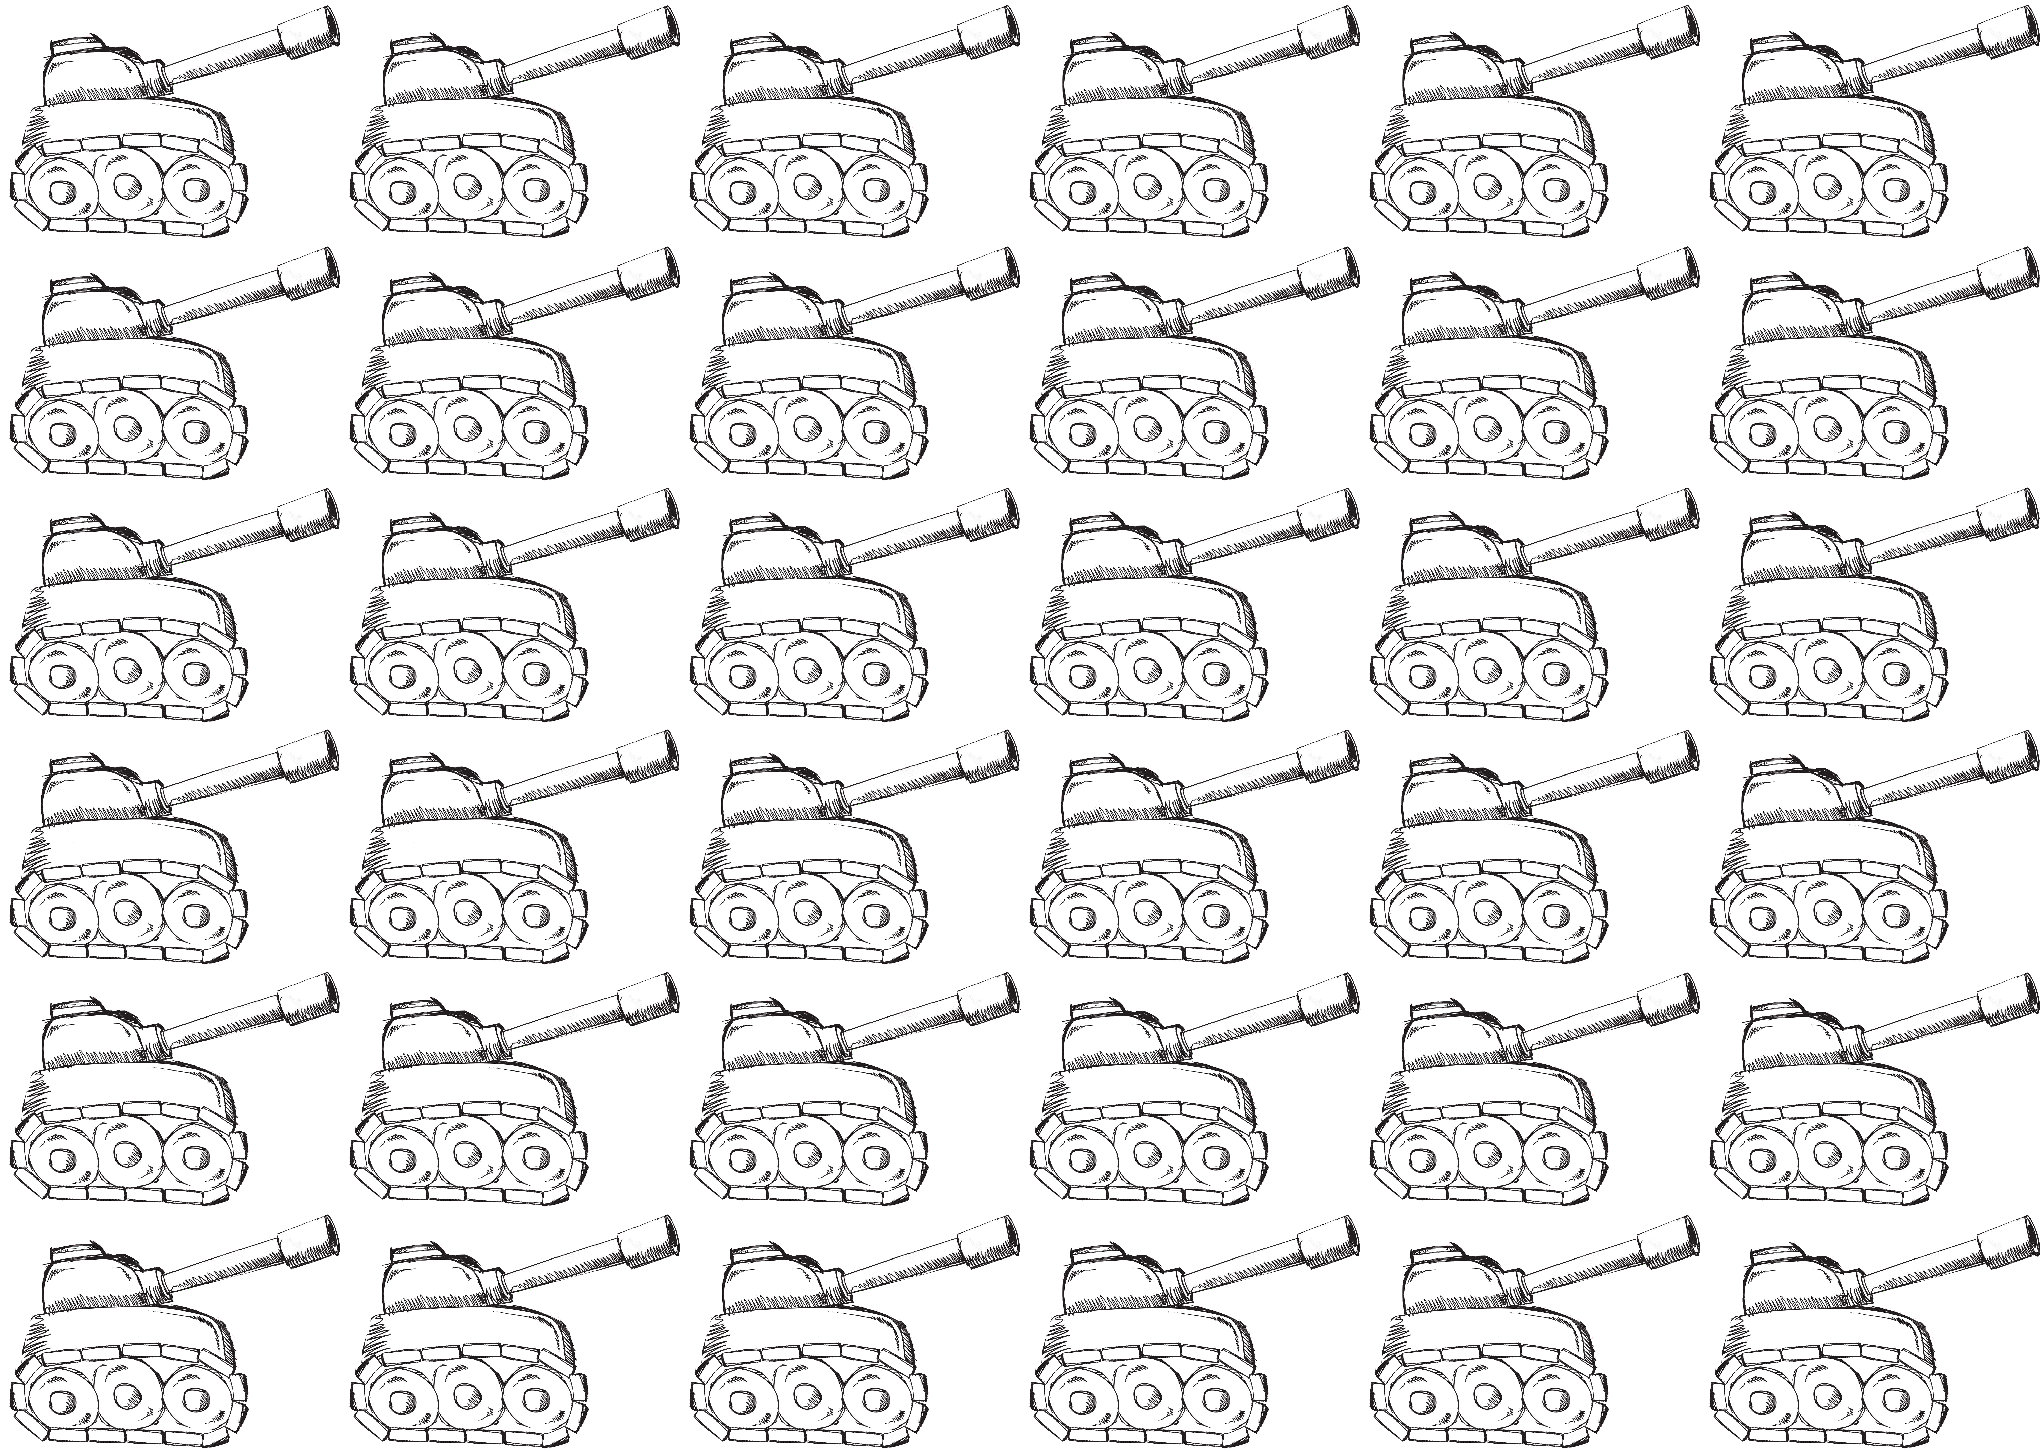
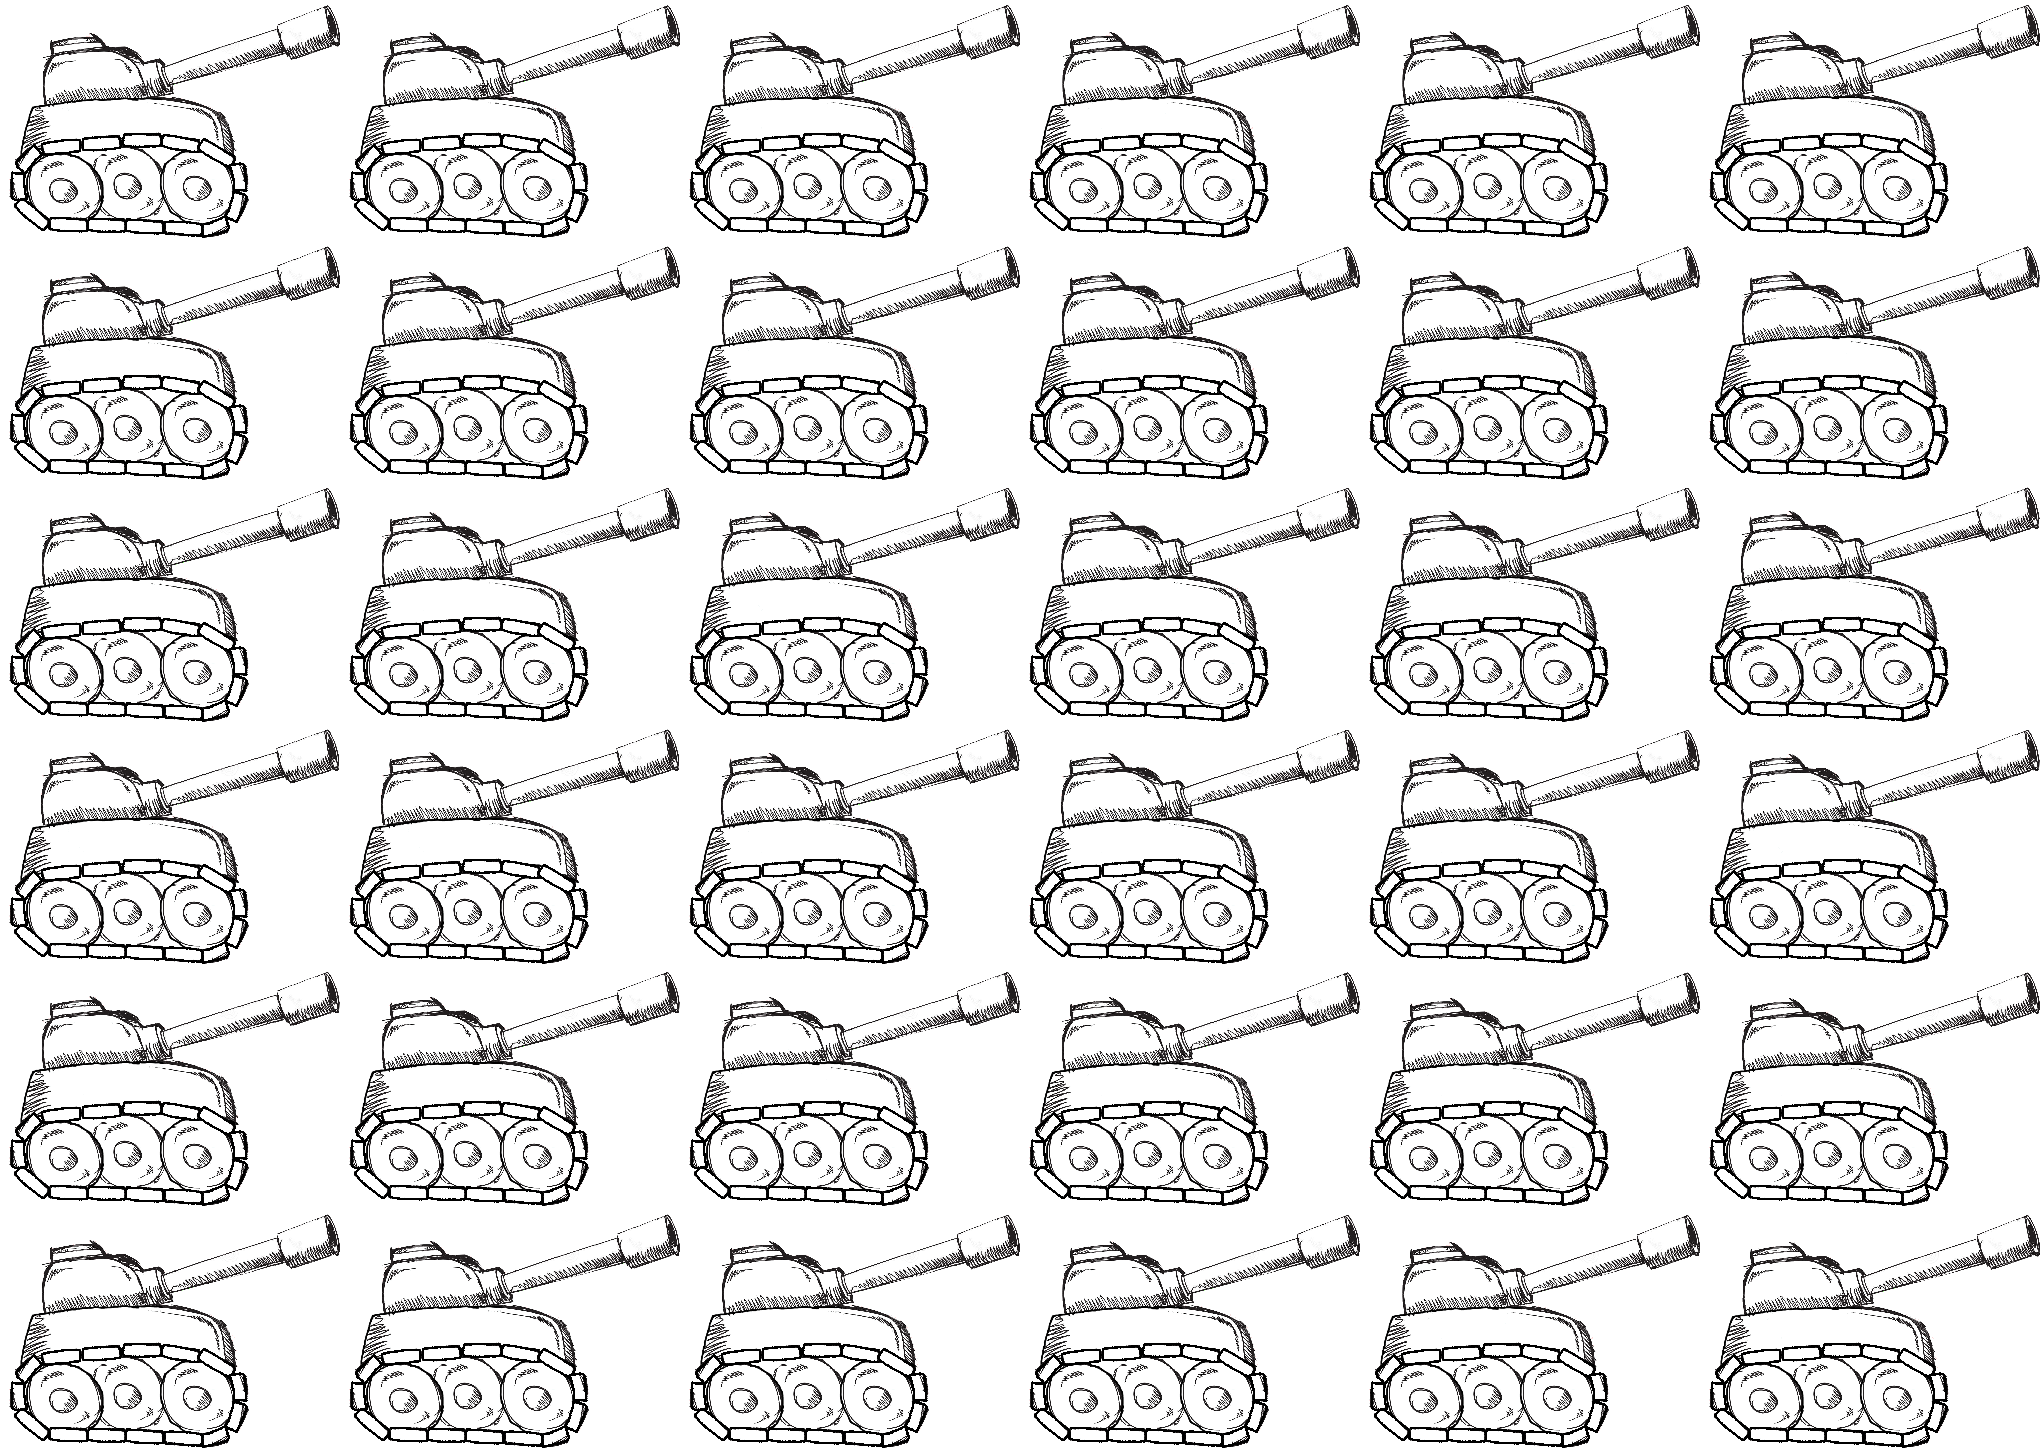
Team Lifebars anchored to camera view, slight update of tank sprites

diff --git a/SketchWars/src/sketchwars/game/SketchWarsWorldFactory.java b/SketchWars/src/sketchwars/game/SketchWarsWorldFactory.java
@@ -12,7 +12,7 @@ import sketchwars.graphics.Texture;
 import sketchwars.character.Team;
 import sketchwars.sound.SoundPlayer;
 import sketchwars.*;
-import sketchwars.HUD.HealthBar;
+import sketchwars.HUD.*;
 
 import java.util.ArrayList;
 import java.util.HashMap;
@@ -172,11 +172,12 @@ public class SketchWarsWorldFactory
             characters.add(character);
         }
         
-        teamHealthBar = new HealthBar(HealthBar.lifeBars[teamNum*2],
+        teamHealthBar = new TeamHealthBar(HealthBar.lifeBars[teamNum*2],
                                       HealthBar.lifeBars[teamNum*2+1],
                                       Vectors.create(-1.0f, -0.7f + (-0.1f * teamNum)),
                                       -0.5f,
-                                      0.05f);
+                                      0.05f,
+                                      gameScene.getCamera());
         
         teamHealthBar.setMaxHealth(characters.get(0).getMaxHealth() * characters.size());
         teamHealthBar.setHealth(characters.get(0).getHealth() * characters.size());
@@ -189,6 +190,8 @@ public class SketchWarsWorldFactory
         
         Team team = new Team(characters, weapons);
         team.setHealthBar(teamHealthBar);
+        world.addGameObject(teamHealthBar);
+        
         return team;
     }
 
@@ -205,7 +208,13 @@ public class SketchWarsWorldFactory
         
         if (idle != null) {
             double ratio = idle.getSpriteHeight()/idle.getSpriteWidth();
-            int widthP = Converter.GraphicsToPhysicsX(CHARACTER_SCALE);
+            int widthP;
+            if(teamNum == 0)
+                widthP = Converter.GraphicsToPhysicsX(0.15f);
+            else
+                widthP = Converter.GraphicsToPhysicsX(CHARACTER_SCALE);
+            
+            //int widthP = Converter.GraphicsToPhysicsX(CHARCTER_SCALE);
             int heightP = (int)(widthP * ratio);
             
             charCollider = new CharacterCollider(character, BitMaskFactory.createRectangle(widthP, heightP));

diff --git a/SketchWars/src/sketchwars/game/SketchWarsWorld.java b/SketchWars/src/sketchwars/game/SketchWarsWorld.java
@@ -73,9 +73,13 @@ public class SketchWarsWorld extends World implements KeyCharListener {
     
     private void updateTeamBars()
     {
+        float counter = 0;
         for (Team t: teams)
         {
             t.updateTotalHealth();
+            
+            t.getHealthBar().setPosition(camera.getLeft(), camera.getTop() - 1.6f - counter);
+            counter += 0.1f;
         }
     }
 

diff --git a/SketchWars/src/sketchwars/character/Team.java b/SketchWars/src/sketchwars/character/Team.java
@@ -32,6 +32,11 @@ public class Team
     {
         healthBar = healthbar;
     }
+    
+    public HealthBar getHealthBar()
+    {
+        return healthBar;
+    }
     public void changeAmmo(WeaponTypes weaponType, int num)
     {
         weapons.get(weaponType).setAmmo(num);
